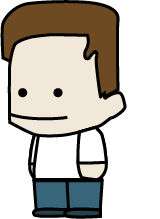
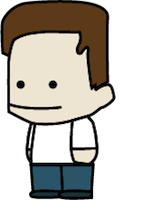
add local.js

diff --git a/static/js/gamegraphics.js b/static/js/gamegraphics.js
@@ -1,30 +1,83 @@
-var Player = (function () {
-    function Player(kind, left, scene, layer) {
-        this.layer = layer;
+var SpriteSheet =(function () {
+    function SpriteSheet(scene, spritesheet_json, spritesheet_img, callback) {
+        var that = this;
+        this.spritesheet_img = spritesheet_img;
+        this.spritesheet_json = spritesheet_json;
+        this.spritesheet = null; // spritesheet data as an Obj
         this.scene = scene;
-        this.left = left;
-        if (kind === 1) {
-            this.image = 'char1sheet.png';
-        } else {
-            this.image = 'char2sheet.png';
+        that.scene.loadImages([spritesheet_img], function () {
+            that.loadFile(spritesheet_json, function (data) {
+                that.spritesheet = JSON.parse(data);
+                callback();
+            });
+        });
+    }
+
+    SpriteSheet.prototype.loadFile = function (filename, fileLoaded) {
+        var request = new XMLHttpRequest();
+        request.open("GET", filename);
+        request.onreadystatechange = function () {
+            if (request.readyState == 4) {
+                fileLoaded(request.responseText);
+            }
+        };
+        request.send();
+    };
+
+    SpriteSheet.prototype.getFrame = function (name) {
+        if (!this.spritesheet.frames[name]) {
+            console.log('spritename not found: ' + name + ' in: ' + Object.keys(this.spritesheet.frames));
         }
+        var frame = this.spritesheet.frames[name].frame;
+        return frame;
+    };
+
+    SpriteSheet.prototype.createSprite = function (name, layer) {
+        var frame = this.getFrame(name);
+        var options = {layer: layer, x: 0, y: 0, size:[frame.w, frame.h]};
+        var sprite = this.scene.Sprite(false, options);
+        sprite.loadImg(this.spritesheet_img);
+        sprite.setXOffset(frame.x);
+        sprite.setYOffset(frame.y);
+        return sprite;
+    };
+
+    SpriteSheet.prototype.createCycle = function (names, dt) {
+        var frameList = [];
+        for (var i = 0; i < names.length; ++i) {
+            var frame = this.spritesheet.frames[names[i]].frame;
+            frameList.push([frame.x, frame.y, dt]);
+        }
+        return sjs.Cycle(frameList);
+    };
+    return SpriteSheet;
+})();
+
+
+var Player = (function () {
+    function Player(spritesheet, left, layer) {
+        this.spritesheet = spritesheet;
+        this.layer = layer;
+        this.left = left;
         this.createPlayer();
+        this.mouth_close = this.spritesheet.getFrame('char1/char1a.png');
+        this.mouth_open = this.spritesheet.getFrame('char1/char1b.png');
     }
 
     Player.prototype.createPlayer = function () {
-        this.sprite = this.scene.Sprite(this.image, this.layer);
-        this.sprite.size(160, 219);
-        this.sprite.setYOffset(0);
+        this.sprite = this.spritesheet.createSprite('char1/char1a.png', this.layer);
         this.sprite.setXScale(this.left ? -1 : 1);
         this.sprite.move(0, 0);
     };
 
     Player.prototype.openMouth = function (time) {
-        this.sprite.setXOffset(160);
+        this.sprite.setXOffset(this.mouth_open.x);
+        this.sprite.setYOffset(this.mouth_open.y);
     };
 
     Player.prototype.closeMouth = function (time) {
-        this.sprite.setXOffset(0);
+        this.sprite.setXOffset(this.mouth_close.x);
+        this.sprite.setYOffset(this.mouth_close.y);
     };
 
     Player.prototype.update = function () {
@@ -35,18 +88,16 @@ var Player = (function () {
 })();
 
 var GameGraphics = (function () {
-    var scene;
-
     function GameGraphics(parent, w, h) {
         var that = this;
         this.w = w;
         this.h = h;
         this.sprites = [];
-        images = ['char1sheet.png'];
-        scene = sjs.Scene({parent: parent, w: w, h: h, autoPause: false});
-        scene.loadImages(images, function () {
-            that.gameLoaded();
-        });
+        this.scene = sjs.Scene({parent: parent, w: w, h: h, autoPause: false});
+        this.spritesheet = new SpriteSheet(this.scene, '../spritesheets/spritesheet1.json',
+        '../spritesheets/spritesheet1.png', function () {
+                that.gameLoaded();
+            });
     }
 
     GameGraphics.prototype.update = function () {
@@ -56,25 +107,19 @@ var GameGraphics = (function () {
 
     GameGraphics.prototype.gameLoaded = function () {
         var that = this;
-        var canvas = true;
-        if (canvas) {
-            this.layer = scene.Layer("layer", {useCanvas: true});
-        } else {
-            this.layer = scene.Layer("layer", {useCanvas: false});
-        }
+        this.layer = that.scene.Layer("layer", {useCanvas: true});
 
         // Create players
-        this.lplayer = new Player(1, true, scene, this.layer);
-        this.rplayer = new Player(1, false, scene, this.layer);
+        this.lplayer = new Player(this.spritesheet, true, this.layer);
+        this.rplayer = new Player(this.spritesheet, false, this.layer);
         this.rplayer.sprite.move(this.w - 160, 0);
 
         function paint() {
             // that.cycle.next(ticker.lastTicksElapsed);
             that.update();
-            //        ticker.pause();
         }
 
-        var ticker = scene.Ticker(30, paint);
+        var ticker = that.scene.Ticker(30, paint);
         ticker.run();
     };
 

diff --git a/static/js/script.js b/static/js/script.js
@@ -36,12 +36,21 @@ var ready = function () {
     gamePlay.endgame_cb = endgame_cb;
     var socket = io.connect(url, {secure: true});
     var oppid = 0;
+    var mainTimer;
 
+    // Graphics
     if (!('getContext' in document.createElement('canvas'))) {
         alert('Sorry, it looks like your browser does not support canvas!');
         return false;
     }
+    var gg = new GameGraphics(document.getElementById('divcanvas'), $('#divcanvas').width(), 200);
+    $('#play-input').on('keydown', function () {
+        gg.keydown();
+    }).on('keyup', function () {
+        gg.keyup();
+    });
 
+    // Timer define
     function runTimer(seconds, update, endcb) {
         var remainingSeconds = seconds;
         update(remainingSeconds);
@@ -51,11 +60,10 @@ var ready = function () {
                 endcb();
             } else {
                 update(remainingSeconds);
-                setTimeout(timerTick, 1000);
+                mainTimer = setTimeout(timerTick, 1000);
             }
         }
-
-        setTimeout(timerTick, 1000);
+        mainTimer = setTimeout(timerTick, 1000);
     }
 
     function startGame() {
@@ -91,12 +99,14 @@ var ready = function () {
             .append('<td>' + gameStats.totalkeypressed + '</td>')
             .append('<td>' + gameStats.nbackspacepressed + '</td>')
             .append('<td>' + Math.floor(10000 * gameStats.accuracy) / 100 + '%</td>')
-            .append('<td>' + Math.floor(100 * gameStats.averageSpeed) / 100 + ' keypress/s</td>');
+            .append('<td>' + gameStats.averageSpeed + ' keypress/min</td>');
         return table;
     }
 
     function realEndGame(data) {
         gameManager.setGameState(4);
+        clearTimeout(mainTimer);
+        sgametimer.html('');
         // Win and lose message
         if (data) {
             $('#modalmessage2').html('');
@@ -258,7 +268,7 @@ var gameInit = function () {
         console.log('user login status: ' + res.status);
     };
 
-    myFB = new FBUtils({appid: 217004898437675}, loginCB);
+    myFB = new FBUtils({appid: Local.FB_APP_ID}, loginCB);
     myFB.getLoginStatus(function () {
         console.log('user is logged in facebook');
         gameInit2();

diff --git a/static/spritesheets/spritesheet1.css b/static/spritesheets/spritesheet1.css
@@ -1,0 +1,24 @@
+/* ----------------------------------------------------
+   created with http://www.texturepacker.com 
+   ----------------------------------------------------
+   $TexturePacker:SmartUpdate:145f89a6d9823ab7c2010d5ad189e092$
+   ----------------------------------------------------
+
+   usage: <span class="{-spritename-} sprite"></span>
+
+   replace {-spritename-} with the sprite you like to use
+
+*/
+
+.sprite {display:inline-block; overflow:hidden; background-repeat: no-repeat;background-image:url(spritesheet1.png);}
+
+.char1-char1a {width:162px; height:221px; background-position: -2px -225px}
+.char1-char1b {width:162px; height:221px; background-position: -2px -2px}
+.shout-shout-1 {width:25px; height:43px; background-position: -195px -53px}
+.shout-shout-2 {width:26px; height:49px; background-position: -195px -2px}
+.shout-shout-3 {width:27px; height:53px; background-position: -166px -2px}
+.shout-shout-4 {width:25px; height:56px; background-position: -223px -2px}
+.shout-shout-5 {width:22px; height:57px; background-position: -166px -57px}
+.shout-shout-6 {width:17px; height:59px; background-position: -190px -98px}
+.shout-shout-7 {width:17px; height:59px; background-position: -222px -60px}
+.shout-shout-8 {width:17px; height:58px; background-position: -166px -116px}

diff --git a/static/js/gamestats.js b/static/js/gamestats.js
@@ -22,7 +22,12 @@ var GameStats = (function () {
     GameStats.prototype.updateStats = function () {
         var curTime = (new Date()).getTime();
         this.accuracy = this.nkeypressed / this.totalkeypressed;
-        this.averageSpeed = (this.nkeypressed / ((curTime - this.startTime) / 1000) * 60);
+        if (this.nkeypressed > 15) {
+            var tmp = (this.nkeypressed / ((curTime - this.startTime) / 1000) * 60);
+            this.averageSpeed = Math.floor(100 * tmp) / 100;
+        } else {
+            this.averageSpeed = 'na';
+        }
     };
 
     GameStats.prototype.keypress = function () {

diff --git a/static/js/roommanager.js b/static/js/roommanager.js
@@ -168,9 +168,9 @@ var RoomManager = (function () {
         for (var i = 0; i < size; ++i) {
             var word = tmpArray[i % tmpArray.length];
             var type = this.getAttackType();
-            var power = word.length * 3;
+            var power = word.length * 2;
             if (type === 1) {
-                power = Math.floor(word.length * 1.5);
+                power = Math.floor(word.length * 1.2);
             }
             res.push({word: word, type: type, power: power});
         }

diff --git a/server.js b/server.js
@@ -4,9 +4,6 @@ var fs = require('fs');
 var RoomManager = require('./static/js/roommanager.js');
 var Common = require('./static/js/common.js');
 
-var SignedRequest = require('facebook-signed-request');
-SignedRequest.secret = 'b4ba1375a1643fb2669792479836af82';
-
 //setup Dependencies
 var connect = require('connect');
 var express = require('express');

diff --git a/static/js/menuscript.js b/static/js/menuscript.js
@@ -11,7 +11,7 @@ menuInit = function () {
         myFB.login(scope, secondStepInit, loginError);
     };
 
-    myFB = new FBUtils({appid: 217004898437675});
+    myFB = new FBUtils({appid: Local.FB_APP_ID});
     myFB.getLoginStatus(function () {
         console.log('user is logged in facebook');
         secondStepInit();

diff --git a/static/css/game.css b/static/css/game.css
@@ -2,8 +2,12 @@
 
 canvas {
     width:100%;
-    height: 200px;
-    background-color: #ccc;
+    /*height: 200px;*/
+    /*background-color: #ccc;*/
+}
+
+#divcanvas {
+    margin-bottom: 10px;
 }
 
 .word {
